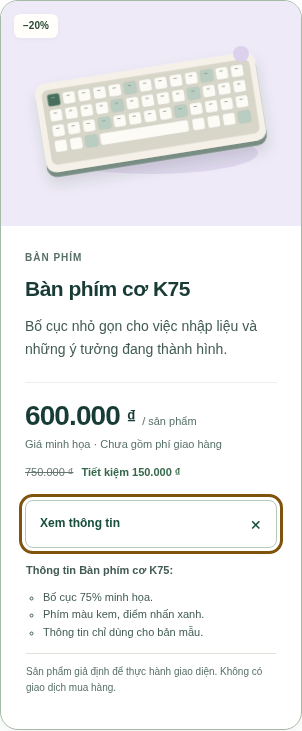
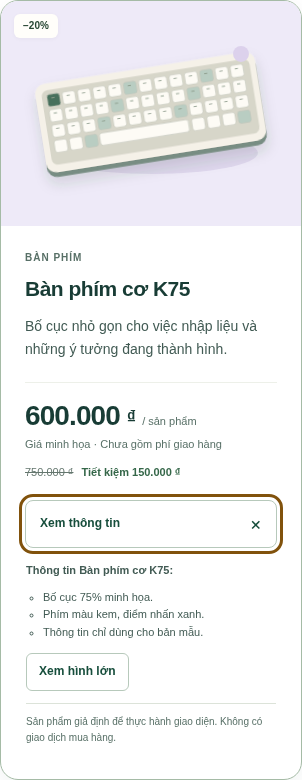
Add and verify product image links for CSS anchor practice

diff --git a/index.html b/index.html
@@ -78,7 +78,7 @@
                 </div>
                 <details class="product-details">
                   <summary class="product-toggle"><span>Xem thông tin<span class="sr-only"> Bàn phím cơ K75</span></span><span class="summary-symbol" aria-hidden="true">+</span></summary>
-                  <div class="product-detail-content"><p><strong>Thông tin Bàn phím cơ K75:</strong></p><ul><li>Bố cục 75% minh họa.</li><li>Phím màu kem, điểm nhấn xanh.</li><li>Thông tin chỉ dùng cho bản mẫu.</li></ul><p class="product-disclaimer">Sản phẩm giả định để thực hành giao diện. Không có giao dịch mua hàng.</p></div>
+                  <div class="product-detail-content"><p><strong>Thông tin Bàn phím cơ K75:</strong></p><ul><li>Bố cục 75% minh họa.</li><li>Phím màu kem, điểm nhấn xanh.</li><li>Thông tin chỉ dùng cho bản mẫu.</li></ul><a class="product-image-link" href="images/keyboard.svg" target="_blank" rel="noopener noreferrer">Xem hình lớn<span class="sr-only"> Bàn phím cơ K75 (mở tab mới)</span></a><p class="product-disclaimer">Sản phẩm giả định để thực hành giao diện. Không có giao dịch mua hàng.</p></div>
                 </details>
               </div>
             </article>
@@ -100,7 +100,7 @@
                 </div>
                 <details class="product-details">
                   <summary class="product-toggle"><span>Xem thông tin<span class="sr-only"> Chuột không dây M2</span></span><span class="summary-symbol" aria-hidden="true">+</span></summary>
-                  <div class="product-detail-content"><p><strong>Thông tin Chuột không dây M2:</strong></p><ul><li>Kết nối không dây minh họa.</li><li>Thân bo tròn và con lăn giữa.</li><li>Thông tin chỉ dùng cho bản mẫu.</li></ul><p class="product-disclaimer">Sản phẩm giả định để thực hành giao diện. Không có giao dịch mua hàng.</p></div>
+                  <div class="product-detail-content"><p><strong>Thông tin Chuột không dây M2:</strong></p><ul><li>Kết nối không dây minh họa.</li><li>Thân bo tròn và con lăn giữa.</li><li>Thông tin chỉ dùng cho bản mẫu.</li></ul><a class="product-image-link" href="images/mouse.svg" target="_blank" rel="noopener noreferrer">Xem hình lớn<span class="sr-only"> Chuột không dây M2 (mở tab mới)</span></a><p class="product-disclaimer">Sản phẩm giả định để thực hành giao diện. Không có giao dịch mua hàng.</p></div>
                 </details>
               </div>
             </article>
@@ -122,7 +122,7 @@
                 </div>
                 <details class="product-details">
                   <summary class="product-toggle"><span>Xem thông tin<span class="sr-only"> Tai nghe chụp tai H1</span></span><span class="summary-symbol" aria-hidden="true">+</span></summary>
-                  <div class="product-detail-content"><p><strong>Thông tin Tai nghe chụp tai H1:</strong></p><ul><li>Thiết kế chụp tai minh họa.</li><li>Quai nối và đệm tai màu xanh.</li><li>Thông tin chỉ dùng cho bản mẫu.</li></ul><p class="product-disclaimer">Sản phẩm giả định để thực hành giao diện. Không có giao dịch mua hàng.</p></div>
+                  <div class="product-detail-content"><p><strong>Thông tin Tai nghe chụp tai H1:</strong></p><ul><li>Thiết kế chụp tai minh họa.</li><li>Quai nối và đệm tai màu xanh.</li><li>Thông tin chỉ dùng cho bản mẫu.</li></ul><a class="product-image-link" href="images/headphones.svg" target="_blank" rel="noopener noreferrer">Xem hình lớn<span class="sr-only"> Tai nghe chụp tai H1 (mở tab mới)</span></a><p class="product-disclaimer">Sản phẩm giả định để thực hành giao diện. Không có giao dịch mua hàng.</p></div>
                 </details>
               </div>
             </article>
@@ -144,7 +144,7 @@
                 </div>
                 <details class="product-details">
                   <summary class="product-toggle"><span>Xem thông tin<span class="sr-only"> Giá đỡ laptop L3</span></span><span class="summary-symbol" aria-hidden="true">+</span></summary>
-                  <div class="product-detail-content"><p><strong>Thông tin Giá đỡ laptop L3:</strong></p><ul><li>Giá đỡ để bàn minh họa.</li><li>Mặt kê nghiêng, màu bạc.</li><li>Thông tin chỉ dùng cho bản mẫu.</li></ul><p class="product-disclaimer">Sản phẩm giả định để thực hành giao diện. Không có giao dịch mua hàng.</p></div>
+                  <div class="product-detail-content"><p><strong>Thông tin Giá đỡ laptop L3:</strong></p><ul><li>Giá đỡ để bàn minh họa.</li><li>Mặt kê nghiêng, màu bạc.</li><li>Thông tin chỉ dùng cho bản mẫu.</li></ul><a class="product-image-link" href="images/stand.svg" target="_blank" rel="noopener noreferrer">Xem hình lớn<span class="sr-only"> Giá đỡ laptop L3 (mở tab mới)</span></a><p class="product-disclaimer">Sản phẩm giả định để thực hành giao diện. Không có giao dịch mua hàng.</p></div>
                 </details>
               </div>
             </article>

diff --git a/css/style.css b/css/style.css
@@ -104,6 +104,8 @@ h2 { font-family: Georgia, 'Times New Roman', serif; font-size: clamp(27px, 2.8v
 .product-detail-content { font-size: 11px; padding: 14px 1px 0; color: var(--body); }
 .product-detail-content p { margin-bottom: 9px; }
 .product-detail-content ul { padding-left: 17px; margin-block: 0 12px; }
+.product-card .product-image-link { display: inline-block; margin-bottom: 12px; padding: 8px 12px; border: 1px solid #b7c9bb; border-radius: 6px; background: white; color: var(--accent); font-size: 12px; font-weight: 700; text-decoration: none; transition: background-color 180ms ease; }
+.product-card .product-image-link:hover { background: #edf4ec; }
 .product-disclaimer { border-top: 1px solid var(--line); padding-top: 10px; color: var(--muted); font-size: 10px; }
 .catalog-footnote { color: var(--muted); margin-block: 23px 0; font-size: 10px; }
 

diff --git a/tools/verify_buoi2.py b/tools/verify_buoi2.py
@@ -145,6 +145,20 @@ async def run(args):
         await page.keyboard.press('Enter')
         assert await page.locator('#filter-all').is_checked()
         result['keyboard_filter_and_reset'] = True
+        result['product_image_links'] = []
+        for i, product in enumerate(data):
+            await page.locator('.product-details').nth(i).evaluate('x=>x.open=true')
+            link=page.locator('.product-image-link').nth(i)
+            assert await link.get_attribute('href') == f'images/{product["slug"]}.svg'
+            async with page.expect_popup() as popup_info:
+                await link.click()
+            popup=await popup_info.value
+            await popup.wait_for_load_state('domcontentloaded')
+            assert popup.url.endswith(f'/images/{product["slug"]}.svg')
+            assert await popup.locator('svg').count() == 1
+            result['product_image_links'].append({'product':product['name'],'href':await link.get_attribute('href'),'opens_svg':True})
+            await popup.close()
+            await page.locator('.product-details').nth(i).evaluate('x=>x.open=false')
         await page.locator('.main-nav a').first.click()
         assert page.url.endswith('#san-pham')
         result['navigation_anchor'] = True

diff --git a/docs/buoi2/AI_USAGE.md b/docs/buoi2/AI_USAGE.md
@@ -38,7 +38,7 @@ Kết quả: HTML tải trực tiếp css/style.css; root style.css chỉ @impor
 
 > Trên thẻ có sẵn, minh họa element selector, class selector và descendant selector. Dùng border/radius ở product-card, padding ở product-content và margin ở đoạn mô tả/khối giá; giải thích border-box theo số đo thực tế. Không tạo lại nội dung sản phẩm.
 
-Kết quả: body/img là element selector; product-card là class selector; .product-card .product-title và .product-card .product-toggle là descendant selector. Đo tại 1366 px: thẻ 302 px, viền 1 px mỗi bên, vùng nội dung rộng ngoài 300 px, padding 24 px mỗi bên, nội dung 252 px. Tránh nhầm padding con là padding của article.
+Kết quả: body/img là element selector; product-card là class selector; .product-card .product-title và .product-card .product-toggle là descendant selector. Đo tại 1366 px: thẻ 302 px, viền 1 px mỗi bên, vùng nội dung rộng ngoài 300 px, padding 24 px mỗi bên, nội dung 252 px. Tránh nhầm padding con là padding của article. Liên kết a.product-image-link được định dạng thành thao tác Xem hình lớn và thử mở đủ bốn SVG tương ứng.
 
 ### Prompt 5 — Flexbox
 
@@ -88,3 +88,5 @@ Kết quả: README trỏ tới hồ sơ Buổi 2, câu hỏi kiến thức, bà
 Trợ lý hỗ trợ đọc đề, phân tích, viết/sửa mã và SVG kế thừa, chạy công cụ, chụp ảnh, soạn đáp án/tài liệu và cập nhật GitHub. Playwright, html5lib và axe là công cụ kiểm tra bên ngoài trang, không là thư viện ứng dụng; trang có 0 script ứng dụng.
 
 Sinh viên cần tự mở trên máy của mình, thử giao diện, tự phát hiện/sửa ít nhất một điểm, giải thích mã và luyện năm dạng sửa trực tiếp. Ghi ngày, thay đổi, lý do và kết quả thực trong TU_KIEM_TRA.md. Các câu trả lời kiến thức là tài liệu hỗ trợ học từ mã thật, cần được sinh viên hiểu và diễn đạt lại.
+
+Liên kết sản phẩm **Xem hình lớn** trong phần thông tin mở rộng trỏ tới đúng SVG của từng hàng và mở tab mới; class `.product-card .product-image-link` minh họa định dạng thẻ a thành thao tác đơn giản. Không tạo trang chi tiết giả hoặc liên kết mua hàng chưa có chức năng.

diff --git a/docs/buoi2/CAU_HOI_KIEN_THUC.md b/docs/buoi2/CAU_HOI_KIEN_THUC.md
@@ -17,7 +17,7 @@ Các câu trả lời dựa trên **mã Phong Select hiện tại**, có AI hỗ
 - `h1/h2/h3`: lần lượt là tiêu đề trang, khu vực và từng sản phẩm; chỉ có một h1 và không nhảy cấp trong lượt kiểm tra.
 - `ul > li`: biểu diễn tập sản phẩm và các mục menu; bên trong mỗi li sản phẩm vẫn có article. Các đặc điểm trong phần thông tin mở rộng cũng là danh sách ul/li. Danh sách ol ở khu vực giới thiệu thể hiện ba ý có thứ tự.
 - `img` có `alt`: hình sản phẩm và mô tả thay thế; các hình giữ chiều rộng/cao gốc 640 × 480.
-- `a`: điều hướng tới vị trí có thật như `#san-pham`, `#cai-tien`, `#thong-tin`, không dùng href giả để mô phỏng mua hàng.
+- `a`: điều hướng tới vị trí có thật như `#san-pham`, `#cai-tien`, `#thong-tin`, không dùng href giả để mô phỏng mua hàng. Trong thông tin sản phẩm còn có a.product-image-link mở đúng hình SVG lớn của mặt hàng.
 - `details/summary`: thao tác mở/đóng thông tin có hành vi gốc, dùng được bằng Enter.
 - `form/fieldset/legend/label/input` và `button type=reset`: nhóm lọc có tên và lựa chọn, đặt lại được.
 

diff --git a/GIAI_THICH_MA_NGUON.md b/GIAI_THICH_MA_NGUON.md
@@ -34,3 +34,5 @@ Flexbox cột trong card/content và margin-top:auto ở khối giá thay các m
 product-toggle chuyển màu 180ms, hover nền xanh/chữ trắng; focus-visible viền 3px offset 3px. Chế độ reduced-motion đưa transition về 0s. Kiểm tra cụ thể trong TEST_RESULTS.md; không dùng một kết quả tự động để nhận tuân thủ tiếp cận toàn diện.
 
 Giải thích Buổi 1 được giữ trong [lịch sử commit dbb6bc2](https://github.com/phong26052006-design/BT_canhanPTUDTMDT/blob/dbb6bc2/GIAI_THICH_MA_NGUON.md).
+
+Liên kết sản phẩm **Xem hình lớn** trong phần thông tin mở rộng trỏ tới đúng SVG của từng hàng và mở tab mới; class `.product-card .product-image-link` minh họa định dạng thẻ a thành thao tác đơn giản. Không tạo trang chi tiết giả hoặc liên kết mua hàng chưa có chức năng.

diff --git a/docs/buoi2/KIEM_THU.md b/docs/buoi2/KIEM_THU.md
@@ -27,6 +27,7 @@ Ngày 22/10/2026. Trình duyệt Chromium 154.0.8037.57; Playwright; parser html
 | Flexbox | Thử flex-start/center/space-between; giữ align-items:center và gap:12px. |
 | Grid | Thử hai/ba cột; đổi tạm sang block để quan sát bỏ Grid; khôi phục 4/2/1 cuối. |
 | Sửa trực tiếp | Đã thử padding28, giá đỏ, 2/3 cột, menu gap36 và alt mới; chỉ sửa DOM tạm, không ghi vào mã cuối. |
+| Liên kết sản phẩm | Bốn nút Xem hình lớn mở đúng SVG tương ứng ở tab mới. |
 | Giá | Tên/giá hiện tại khớp products.json; bốn tỷ lệ giảm đúng. |
 | Giảm chuyển động | Transition về 0s khi reduce. |
 | Script/lỗi | 0 script ứng dụng; không pageerror/HTTP lỗi trong lượt thử. |

diff --git a/docs/buoi2/RA_SOAT_VA_THAY_DOI.md b/docs/buoi2/RA_SOAT_VA_THAY_DOI.md
@@ -37,3 +37,5 @@ Quy tắc media phía sau có thể ghi đè quy tắc gốc. Khi luyện sửa 
 ## 5. Phần cá nhân
 
 Các thay đổi và thử nghiệm trong phiên này do trợ lý thực hiện. Sinh viên phải tự mở, phát hiện/sửa ít nhất một điểm và giải thích đoạn mã theo mục 11 của đề. Chưa có xác nhận thay hoạt động đó; ghi kết quả thật ở TU_KIEM_TRA.md.
+
+Liên kết sản phẩm **Xem hình lớn** trong phần thông tin mở rộng trỏ tới đúng SVG của từng hàng và mở tab mới; class `.product-card .product-image-link` minh họa định dạng thẻ a thành thao tác đơn giản. Không tạo trang chi tiết giả hoặc liên kết mua hàng chưa có chức năng.

diff --git a/TEST_RESULTS.md b/TEST_RESULTS.md
@@ -15,3 +15,5 @@ Chi tiết và giới hạn: [docs/buoi2/KIEM_THU.md](docs/buoi2/KIEM_THU.md). L
 Công cụ tái chạy tùy chọn: [tools/README.md](tools/README.md). Không có công cụ kiểm tra được tải trong website.
 
 Kết quả Buổi 1 vẫn giữ ở evidence/ui-check.json và lịch sử Git; không ghi đè bằng dữ liệu mới. Chưa thử mọi trình duyệt, thiết bị thật, trình đọc màn hình hoặc khảo sát người dùng.
+
+Bổ sung Buổi 2: bốn liên kết Xem hình lớn đã được click và xác minh mở đúng SVG của từng sản phẩm trong tab mới.

diff --git a/README.md b/README.md
@@ -87,3 +87,5 @@ evidence/buoi2/after/       Ảnh sau, thí nghiệm và log
 bao-cao/                    Báo cáo Word
 tools/                      Công cụ kiểm tra tùy chọn
 ```
+
+Liên kết sản phẩm **Xem hình lớn** trong phần thông tin mở rộng trỏ tới đúng SVG của từng hàng và mở tab mới; class `.product-card .product-image-link` minh họa định dạng thẻ a thành thao tác đơn giản. Không tạo trang chi tiết giả hoặc liên kết mua hàng chưa có chức năng.
